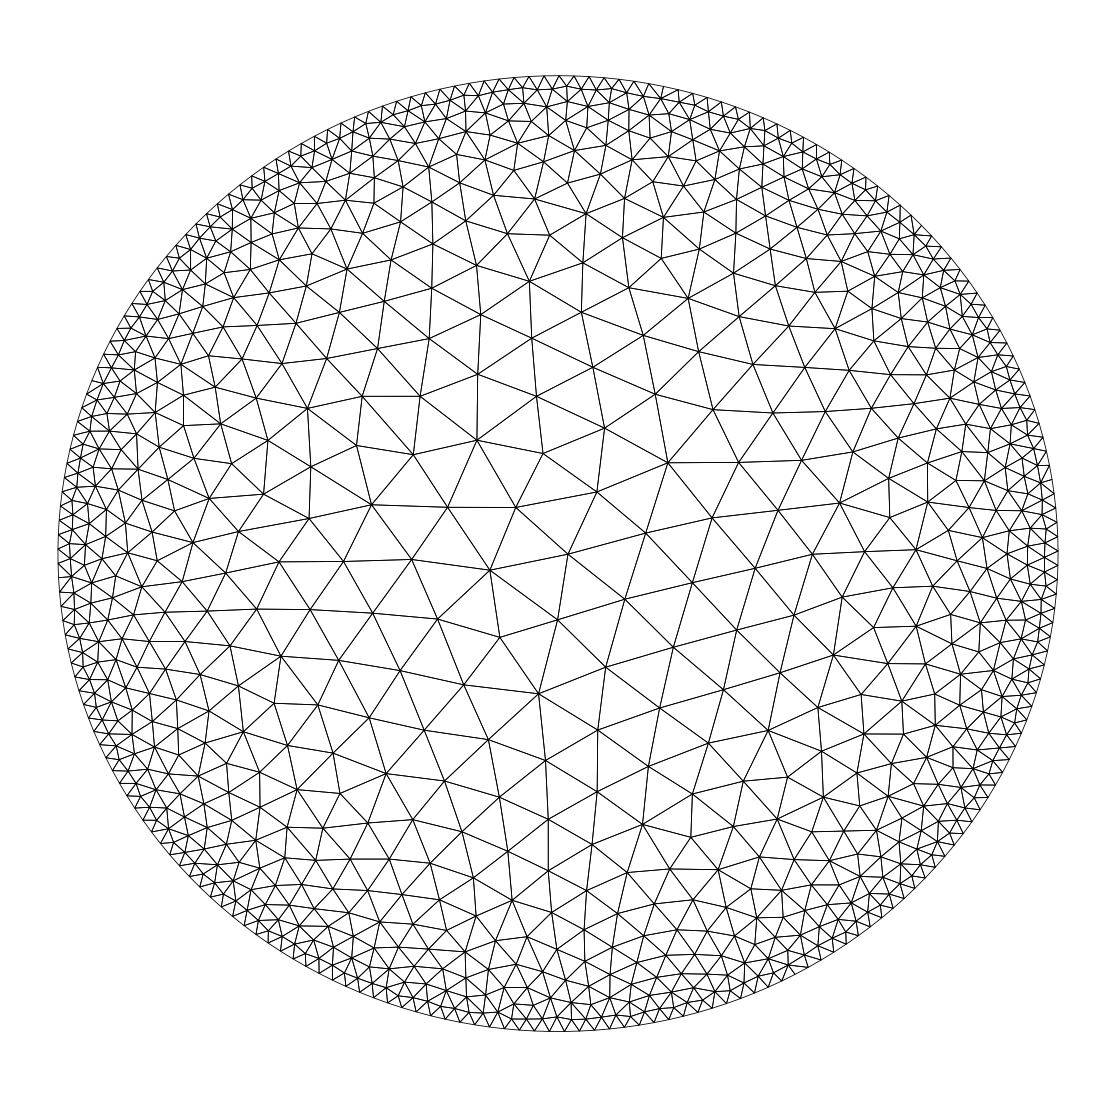
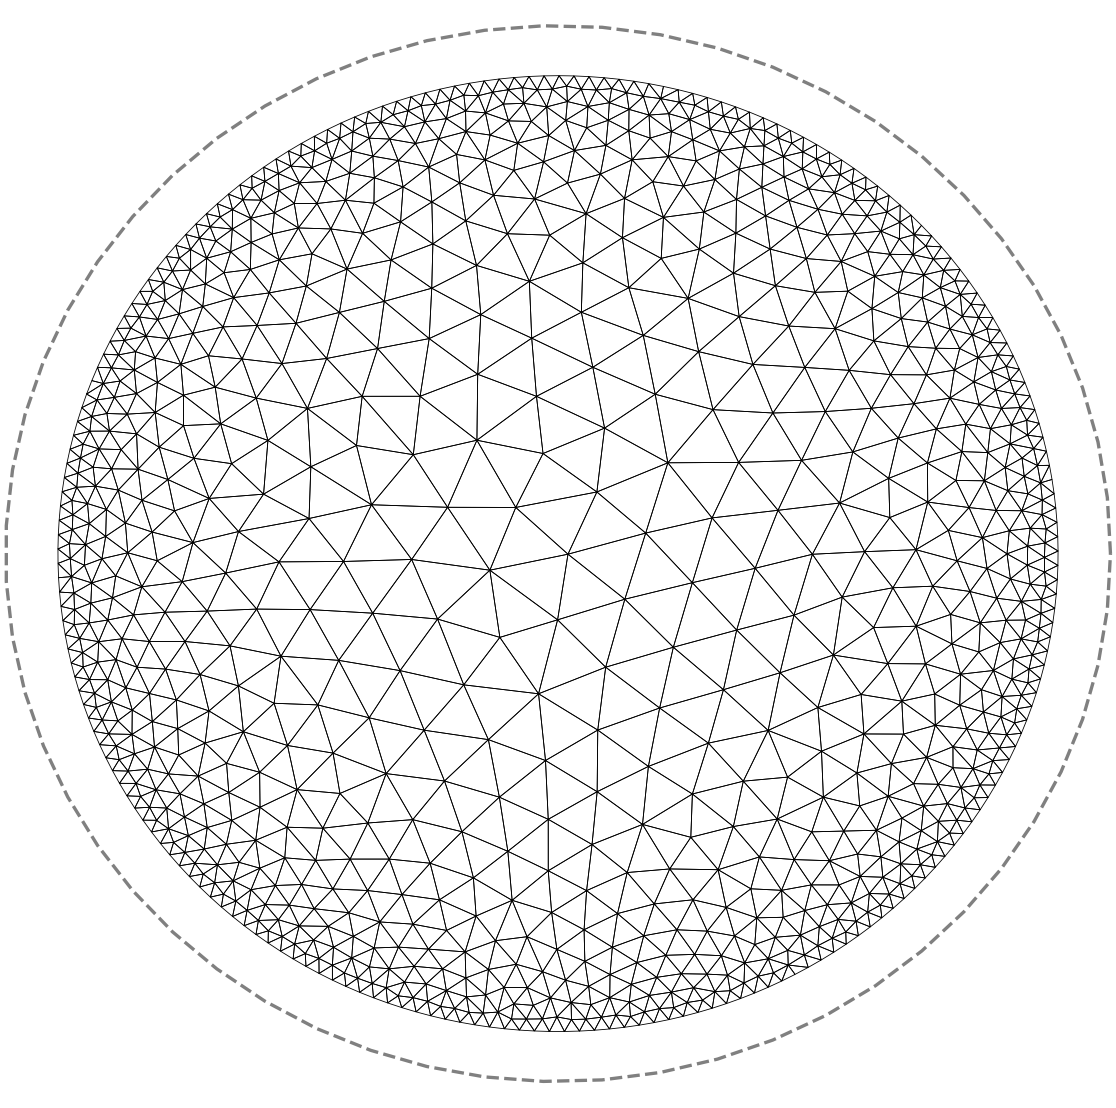
.

diff --git a/hyperbolic/VEM_HOMOGENEOUS_O1.py b/hyperbolic/VEM_HOMOGENEOUS_O1.py
@@ -38,7 +38,7 @@ def nrm_dst(a, x):
     d0 = _vec_delta(y, b[:, 0])
     d1 = _vec_delta(x_A / (1 + np.sqrt(1 - np.sum(x_A * x_A, axis=0))), b[:, 0])
 
-    f = 1 - np.acosh(d0) / np.acosh(d1)
+    f = 1 - np.arccosh(d0) / np.arccosh(d1)
     f[np.isnan(f)] = 1
     return f
 
@@ -186,38 +186,16 @@ def Jac_hyperboloid_to_klein(x, u):
         -x[1, :] / x[0, :] * u[0, :] - x[2, :] / x[0, :] * u[1, :],
         u[0, :], u[1, :]]) / x[0, :]
 
-def _V(x, a):
-    z = klein_to_hyperboloid(x)
-    b = klein_to_hyperboloid(a)
+def _V(u, v, x):
+    d0 = 1 + 2 * ((u - v) @ (u - v)) / ((1 - u @ u) * (1 - v @ v))
+    d1 = _vec_delta(x, u)
+    d2 = _vec_delta(x, v)
 
-    A = orthomap(b)
-    z = A @ z
-    y = hyperboloid_to_klein(z)
+    A = np.abs(1 - d0 * d0 - d1 * d1 - d2 * d2 + 2 * d0 * d1 * d2)
+    B = 1 + d0 + d1 + d2
 
-    r = y * y
-    S = np.power((1 - r[1, :]) / ((1 - r[0, :]) * (1 - r[0, :] - r[1, :])), .25)
-
-    f = y[0, :] * S
-    m = np.min(f)
-    M = np.max(f)
-    M = M if M > -m else m
-
-    #D1f = -.5 / M * r[0, :] * r[1, :] / (1 - r[0, :]) + 1 - r[1, :]
-    #D2f = .5 / M * y[0, :] * y[1, :] * r[0, :] / (1 - r[1, :])
-    #Dgf = S * np.array([
-    #    (1 - r[0, :]) * D1f - y[0, :] * y[1, :] * D2f,
-    #    (1 - r[1, :]) * D2f - y[0, :] * y[1, :] * D1f
-    #])
-
-    Dgf = S * np.array([
-        1 + .5 * r[0, :] * (1.0 / (1 - r[0, :] - r[1, :]) + 1.0 / (1 - r[0, :])),
-        .5 * y[0, :] * y[1, :] * (1 / (1 - r[0, :] - r[1, :]) - 1 / (1 - r[1, :]))
-    ])
-
-    Dgf = Jac_hyperboloid_to_klein(z, Dgf)
-    Dgf = Jac_klein_to_hyperboloid(x, A.T @ Dgf)
-
-    return f / M, Dgf / M
+    vol = 2 * np.arctan(np.sqrt(A) / B)
+    return vol / np.max(vol)
 
 def _Phi_KtD(x):
     return x / (1 + np.sqrt(1 - np.sum(x * x, axis=0)))
@@ -407,9 +385,12 @@ class Model:
             Y = klein_to_hyperboloid(X)
             Y = hyperboloid_to_klein(np.linalg.inv(T) @ Y)
 
-            V0 = nrm_dst(v, X)
-            V1 = nrm_dst(np.roll(v, -1, axis=1), X)
-            V2 = nrm_dst(np.roll(v, -2, axis=1), X)
+            v_D = _Phi_KtD(v)
+            X_D = _Phi_KtD(X)
+
+            V0 = _V(v_D[:, 1], v_D[:, 2], X_D)
+            V1 = _V(v_D[:, 2], v_D[:, 0], X_D)
+            V2 = _V(v_D[:, 0], v_D[:, 1], X_D)
 
             e = self._solution[self._elements[[i0, i1, i2]]]
             e[np.logical_not(self._mask[[i0, i1, i2]])] = 0

diff --git a/hyperbolic/FEM_STAUDTIAN_O1.py b/hyperbolic/FEM_STAUDTIAN_O1.py
@@ -57,7 +57,7 @@ def _distance(x, y, A):
 
     return dst, D1dst, D2dst
 
-def _V(u, v, x):
+def _staudtian(u, v, x):
     a, D1a, D2a = _distance(x[0, :], x[1, :], u)
     b, D1b, D2b = _distance(x[0, :], x[1, :], v)
     c, _, _ = _distance(u[0], u[1], v)
@@ -80,6 +80,19 @@ def _V(u, v, x):
     M = np.max(S)
 
     return S / M, np.array([D1S, D2S]) / M
+
+def _V(a, x):
+    V0, DV0 = _staudtian(a[:, 1], a[:, 2], x)
+    V1, DV1 = _staudtian(a[:, 2], a[:, 0], x)
+    V2, DV2 = _staudtian(a[:, 0], a[:, 1], x)
+
+    S = V0 + V1 + V2
+    DS = (DV0 + DV1 + DV2) / S
+
+    return V0 / S, V1 / S, V2 / S, \
+           (DV0 - V0 * DS) / S, \
+           (DV1 - V1 * DS) / S, \
+           (DV2 - V2 * DS) / S
 
 def _Phi_KtD(x):
     return x / (1 + np.sqrt(1 - np.sum(x * x, axis=0)))
@@ -169,9 +182,8 @@ class Model:
             X_K = F(self._integrator.vertices)
             X_D = _Phi_KtD(X_K)
 
-            V0, DV0 = _V(v_D[:, 1], v_D[:, 2], X_D)
-            V1, DV1 = _V(v_D[:, 2], v_D[:, 0], X_D)
-            V2, DV2 = _V(v_D[:, 0], v_D[:, 1], X_D)
+            V0, V1, V2, DV0, DV1, DV2 = _V(v_D, X_D)
+
             dv = np.square(1 - np.sum(X_D * X_D, axis=0)) * _dVol_K(X_K) / 4.0
             e0, e1, e2 = self._elements[i0], self._elements[i1], self._elements[i2]
 
@@ -243,9 +255,7 @@ class Model:
             Y = klein_to_hyperboloid(X_K)
             Y = hyperboloid_to_klein(np.linalg.inv(T) @ Y)
 
-            V0, DV0 = _V(v_D[:, 1], v_D[:, 2], X_D)
-            V1, DV1 = _V(v_D[:, 2], v_D[:, 0], X_D)
-            V2, DV2 = _V(v_D[:, 0], v_D[:, 1], X_D)
+            V0, V1, V2, DV0, DV1, DV2 = _V(v_D, X_D)
 
             _f_dv = f(Y[0, :] + 1j * Y[1, :]) * _dVol_K(X_K)
 
@@ -328,9 +338,7 @@ class Model:
 
             X_D = _Phi_KtD(X)
 
-            V0, DV0 = _V(v_D[:, 1], v_D[:, 2], X_D)
-            V1, DV1 = _V(v_D[:, 2], v_D[:, 0], X_D)
-            V2, DV2 = _V(v_D[:, 0], v_D[:, 1], X_D)
+            V0, V1, V2, DV0, DV1, DV2 = _V(v_D, X_D)
 
             e = self._solution[self._elements[[i0, i1, i2]]]
             e[np.logical_not(self._mask[[i0, i1, i2]])] = 0

diff --git a/h-laplace.py b/h-laplace.py
@@ -18,8 +18,8 @@ X[1, :] = _X1.flatten()
 #X *= _r / _R; Y *= _r / _R
 
 
-u = np.array([-.2, .8])
-v = np.array([-.4, -.5])
+u = np.array([.0, .51234])
+v = np.array([.0, -.51234])
 
 d_uv = 1 + 2 * ((u - v) @ (u - v)) / ((1 - u@u) * (1 - v@v))
 
@@ -47,7 +47,7 @@ def nrm_dst(b, y):
     d0 = d(y, b[:, 0])
     d1 = d(x_A / (1 + np.sqrt(1 - np.sum(x_A * x_A, axis=0))), b[:, 0])
 
-    f = 1 - np.acosh(d0) / np.acosh(d1)
+    f = 1 - np.arccosh(d0) / np.arccosh(d1)
     f[np.isnan(f)] = 1
     return f
 
@@ -86,7 +86,7 @@ def D1V(x):
     return 2 * V / (1 + V*V) * (a / A - b / B)
     #return D1d1
 
-F = nrm_dst(np.array([[0, 0], u, v]).T, X)
+F = nrm_dst(np.array([[0.5, 0], u, v]).T, X)
 DF = np.gradient(np.reshape(F, (res, res)), dx, dy)
 
 k = .5 * (1 - _X0 * _X0 - _X1 * _X1)
@@ -101,12 +101,13 @@ ax.set_ylabel("y")
 
 print(np.sum(np.isnan(F)))
 
-ax.plot_surface(_X0, _X1, LgF, label="f_1")
+ax.plot_surface(_X0, _X1, np.clip(LgF, -1, 1), label="f_1")
+#ax.plot_surface(_X0, _X1, np.reshape(F, (res, res)), label="f_1")
 ax.scatter(u[0], u[1])
 ax.scatter(v[0], v[1])
 #ax.scatter(X[0, :], X[1, :], D1V(X), s=0.1, color="yellow")
 #ax.plot_surface(_X0, _X1, np.clip(np.reshape(D1V(X), (res, res)), -1, 1), label="f_1")
 #ax.plot_surface(X, Y, k * k * DF[1], label="f_2")
 #ax.plot_surface(X, Y, np.clip(LgF, -1, 1), label="Lf")
-ax.legend()
+#ax.legend()
 plt.show()

diff --git a/hyperbolic/convergence.py b/hyperbolic/convergence.py
@@ -74,7 +74,7 @@ _bdry_i = 0
 #for triangulation_f in ["../meshgen/output/triangulation_rect_hyp_180(80).txt",
 #                        "../meshgen/output/triangulation_rect_hyp_560(160).txt",
 #                        "../meshgen/output/triangulation_rect_hyp_1100(200).txt"]:
-for N in [256, 512, 1024]:
+for N in [256, 512]:
     vertices, polygons, boundary = triangulate.load(f"./triangulations/uniform_disk_hyp_{N}.npz")
     vertices_vem, polygons_vem, boundary_vem = vem_triangulate.vem_mesh(N)
 
@@ -83,7 +83,7 @@ for N in [256, 512, 1024]:
 
     res = 100
     models = [
-        FEM_SIMPLEX_O1.Model(vertices_k, polygons, boundary),
+        FEM_STAUDTIAN_O1.Model(vertices_k, polygons, boundary),
         VEM_HOMOGENEOUS_O1.Model(vertices_vem, polygons_vem, boundary_vem)
     ]
 

diff --git a/hyperbolic/triangulate.py b/hyperbolic/triangulate.py
@@ -485,8 +485,8 @@ def plot_triangulation(filename):
     ax = fig.add_subplot(xlim=(-1.01, 1.01), ylim=(-1.05, 1.05))
     plt.axis("off")
 
-    #t = np.linspace(0, 2 * np.pi, 60)
-    #plt.plot(np.cos(t), np.sin(t), "--", color="gray", linewidth=.8)
+    t = np.linspace(0, 2 * np.pi, 60)
+    plt.plot(np.cos(t), np.sin(t), "--", color="gray", linewidth=.8)
 
     vertices, polygons, trace = load("./triangulations/" + filename + ".npz")
     plot.add_wireframe(ax, vertices, polygons)
@@ -546,7 +546,7 @@ if __name__ == "__main__":
     plot_triangulation("uniform_disk_hyp_2048")
     plot_triangulation("uniform_disk_hyp_4096")
     plot_triangulation("uniform_disk_hyp_8192")
-    plt.show()
+    #plt.show()
     '''
 
     ax = plt.figure().add_subplot()

diff --git a/hyperbolic/test_triangle.py b/hyperbolic/test_triangle.py
@@ -110,9 +110,6 @@ def _RHS_bdry_int(a, b, t, dt):
     I_v = V * (u1 @ s_dV)
     I = np.sum(I_v * dt) - .5 * I_v[0] * dt
 
-    #plt.plot(t, I_v)
-    #plt.show()
-
     ###
 
     X = a[:, 0, np.newaxis] + np.outer(u2, t)
@@ -159,7 +156,7 @@ def RHS(a, N):
 
 u = np.array([-0.8, .0])
 w = np.array([.2, -0.6])
-v = np.array([.0, -1.0])
+v = np.array([.0, -0.9])
 
 N_samples = []
 I_arr = []

diff --git a/hyperbolic/h_staudtian.py b/hyperbolic/h_staudtian.py
@@ -120,6 +120,6 @@ if True:
     ax = plt.axes(projection='3d')
     ax.set_xlabel("x")
     ax.set_ylabel("y")
-    ax.scatter(x[0, :], x[1, :], np.arcsinh(y0) + np.arcsinh(y1) + np.arcsinh(y2), s=.4)
+    ax.scatter(x[0, :], x[1, :], y0 / (y0 + y1 + y2), s=.4)
     ax.legend()
     plt.show()
